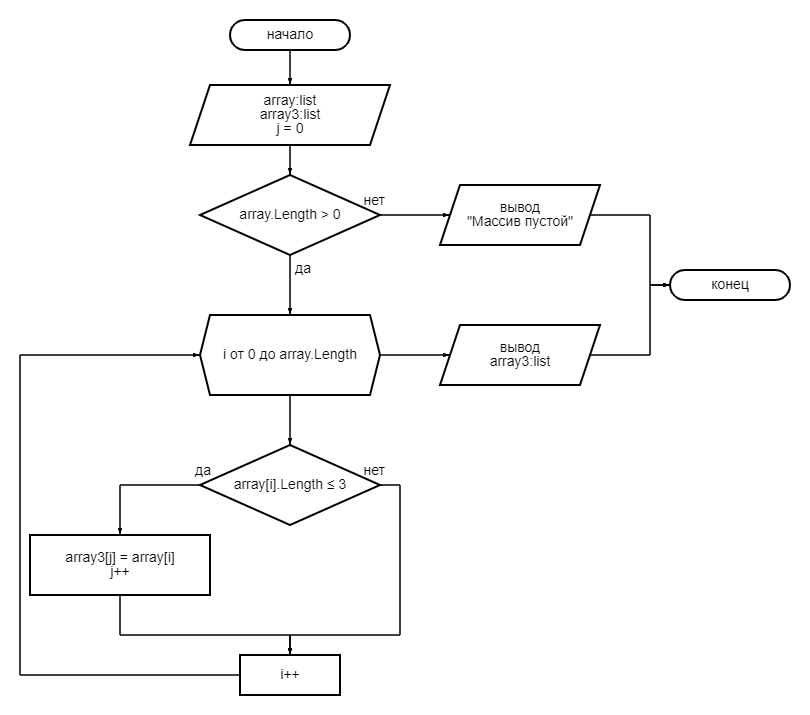
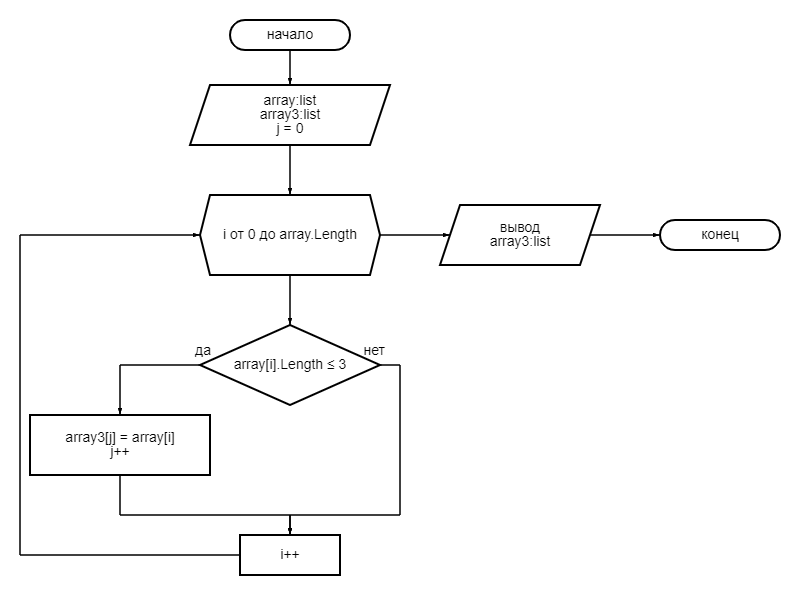
Updated diagram and added in README file

Changed region(s): [[0.0, 0.0, 1.0, 0.9983], [0.0, 0.484, 0.25, 0.5143], [0.3438, 0.7261, 0.375, 0.7563]]

diff --git a/README.md b/README.md
@@ -8,6 +8,10 @@
 [“Russia”, “Denmark”, “Kazan”] → []
 
 ## О программе
+
+Блок-схема в папке Diagram.
+!![Блок-схема](Diagram/diagram_massive3.png "Блок-схема")
+
 ### 1 блок
 Сначала решается, будет ли вводиться массив вручную или будет взят автоматически из программы. Путем ввода 1 или 0 соответственно.
 
